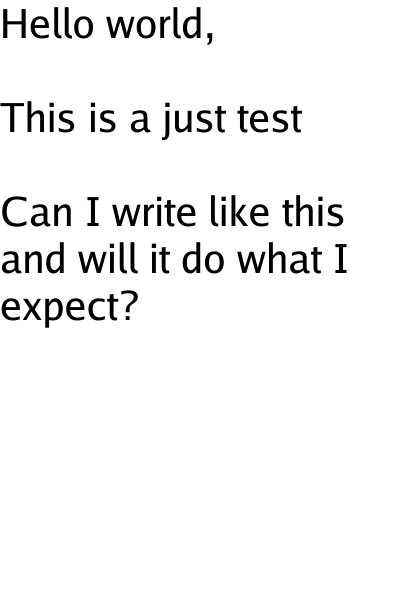
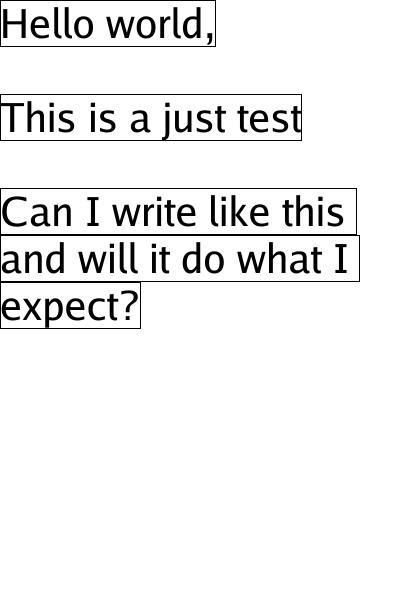
Boxing added. (Could be used for select.)

diff --git a/box.go b/box.go
@@ -18,7 +18,7 @@ type Box interface {
 	DrawBox(i Image, y fixed.Int26_6)
 }
 
-type Boxer func(fce font.Face, color image.Image, text []rune) (Box, int, error)
+type Boxer func(fce font.Face, color image.Image, text []rune, options ...BoxerOption) (Box, int, error)
 
 func IsCR(r rune) bool {
 	return r == '\r'
@@ -28,15 +28,16 @@ func IsLF(r rune) bool {
 	return r == '\n'
 }
 
-func SimpleBoxer(fce font.Face, color image.Image, text []rune) (Box, int, error) {
+func SimpleBoxer(fce font.Face, color image.Image, text []rune, options ...BoxerOption) (Box, int, error) {
 	n, rs, rmode := SimpleBoxerGrab(text)
+	var b Box
 	switch rmode {
 	case RNIL:
 		return nil, n, nil
 	case RCRLF:
-		return &LineBreakBox{
+		b = &LineBreakBox{
 			fce: fce,
-		}, n, nil
+		}
 	case RSimpleBox:
 		t := string(rs)
 		drawer := &font.Drawer{
@@ -47,16 +48,20 @@ func SimpleBoxer(fce font.Face, color image.Image, text []rune) (Box, int, error
 			return nil, 0, errors.New("font face not provided")
 		}
 		ttb, a := drawer.BoundString(t)
-		return &SimpleBox{
+		b = &SimpleBox{
 			drawer:   drawer,
 			Contents: t,
 			Bounds:   ttb,
 			Advance:  a,
 			Metrics:  fce.Metrics(),
-		}, n, nil
+		}
 	default:
 		return nil, 0, fmt.Errorf("unknown rmode %d", rmode)
 	}
+	for _, option := range options {
+		option.ApplyBoxConfig(b)
+	}
+	return b, n, nil
 }
 
 const (
@@ -125,7 +130,11 @@ type SimpleBox struct {
 	drawer   *font.Drawer
 	Advance  fixed.Int26_6
 	Metrics  font.Metrics
-	BoxBox   bool
+	boxBox   bool
+}
+
+func (sb *SimpleBox) turnOnBox() {
+	sb.boxBox = true
 }
 
 func (sb *SimpleBox) AdvanceRect() fixed.Int26_6 {
@@ -152,7 +161,7 @@ func (sb *SimpleBox) DrawBox(i Image, y fixed.Int26_6) {
 		Y: fixed.I(b.Min.Y) + y,
 	}
 	sb.drawer.DrawString(sb.Contents)
-	if sb.BoxBox {
+	if sb.boxBox {
 		util.DrawBox(i, b)
 	}
 }

diff --git a/fold.go b/fold.go
@@ -16,13 +16,22 @@ type Line interface {
 	DrawLine(i Image) error
 }
 
-type Folder func(b Boxer, pos int, feed []rune) (Line, int, error)
+type Folder func(b Boxer, pos int, feed []rune, options ...FolderOption) (Line, int, error)
 
 type SimpleLine struct {
-	Boxes   []Box
-	size    fixed.Rectangle26_6
-	height  fixed.Int26_6
-	BoxLine bool
+	Boxes        []Box
+	size         fixed.Rectangle26_6
+	height       fixed.Int26_6
+	boxLine      bool
+	boxerOptions []BoxerOption
+}
+
+func (sl *SimpleLine) addBoxConfig(bo BoxerOption) {
+	sl.boxerOptions = append(sl.boxerOptions, bo)
+}
+
+func (sl *SimpleLine) turnOnBox() {
+	sl.boxLine = true
 }
 
 func (sl *SimpleLine) DrawLine(i Image) error {
@@ -40,13 +49,13 @@ func (sl *SimpleLine) DrawLine(i Image) error {
 		b.DrawBox(subImage, sl.height)
 		r.Min.X = r.Max.X
 	}
-	if sl.BoxLine {
+	if sl.boxLine {
 		util.DrawBox(i, bounds)
 	}
 	return nil
 }
 
-func SimpleFolder(boxer Boxer, fce font.Face, feed []rune, container image.Rectangle) (Line, int, error) {
+func SimpleFolder(boxer Boxer, fce font.Face, feed []rune, container image.Rectangle, options ...FolderOption) (Line, int, error) {
 	if len(feed) == 0 {
 		return nil, 0, nil
 	}
@@ -55,9 +64,12 @@ func SimpleFolder(boxer Boxer, fce font.Face, feed []rune, container image.Recta
 		Boxes: []Box{},
 		size:  fixed.R(0, 0, 0, 0),
 	}
+	for _, option := range options {
+		option.ApplyFoldConfig(r)
+	}
 	done := false
 	for !done {
-		b, i, err := boxer(fce, image.NewUniform(colornames.Black), feed[n:])
+		b, i, err := boxer(fce, image.NewUniform(colornames.Black), feed[n:], r.boxerOptions...)
 		if err != nil {
 			log.Panicf("Error with boxing text: %s", err)
 		}

diff --git a/options.go b/options.go
@@ -1,0 +1,47 @@
+package wordwrap
+
+import "log"
+
+type FolderOption interface {
+	ApplyFoldConfig(interface{})
+}
+
+type BoxerOption interface {
+	FolderOption
+	ApplyBoxConfig(interface{})
+}
+
+type boxerOptionFunc func(interface{})
+
+func (b boxerOptionFunc) ApplyBoxConfig(br interface{}) {
+	b(br)
+}
+func (b boxerOptionFunc) ApplyFoldConfig(fr interface{}) {
+	if fr, ok := fr.(interface{ addBoxConfig(BoxerOption) }); ok {
+		fr.addBoxConfig(b)
+	} else {
+		log.Printf("can't apply")
+	}
+}
+
+type folderOptionFunc func(interface{})
+
+func (f folderOptionFunc) ApplyFoldConfig(fr interface{}) {
+	f(fr)
+}
+
+var BoxLine = folderOptionFunc(func(f interface{}) {
+	switch f := f.(type) {
+	case interface{ turnOnBox() }:
+		f.turnOnBox()
+	default:
+		log.Printf("can't apply")
+	}
+})
+
+var BoxBox = boxerOptionFunc(func(f interface{}) {
+	switch f := f.(type) {
+	case interface{ turnOnBox() }:
+		f.turnOnBox()
+	}
+})

diff --git a/cmd/simplewraptoimage/main.go b/cmd/simplewraptoimage/main.go
@@ -46,7 +46,7 @@ func main() {
 	rt := []rune(text)
 	p := i.Rect.Min
 	for p.Y < i.Rect.Dy() {
-		l, ni, err := wordwrap.SimpleFolder(wordwrap.SimpleBoxer, grf, rt[n:], i.Rect)
+		l, ni, err := wordwrap.SimpleFolder(wordwrap.SimpleBoxer, grf, rt[n:], i.Rect, wordwrap.BoxLine)
 		if err != nil {
 			log.Panicf("Error with boxing text: %s", err)
 		}
